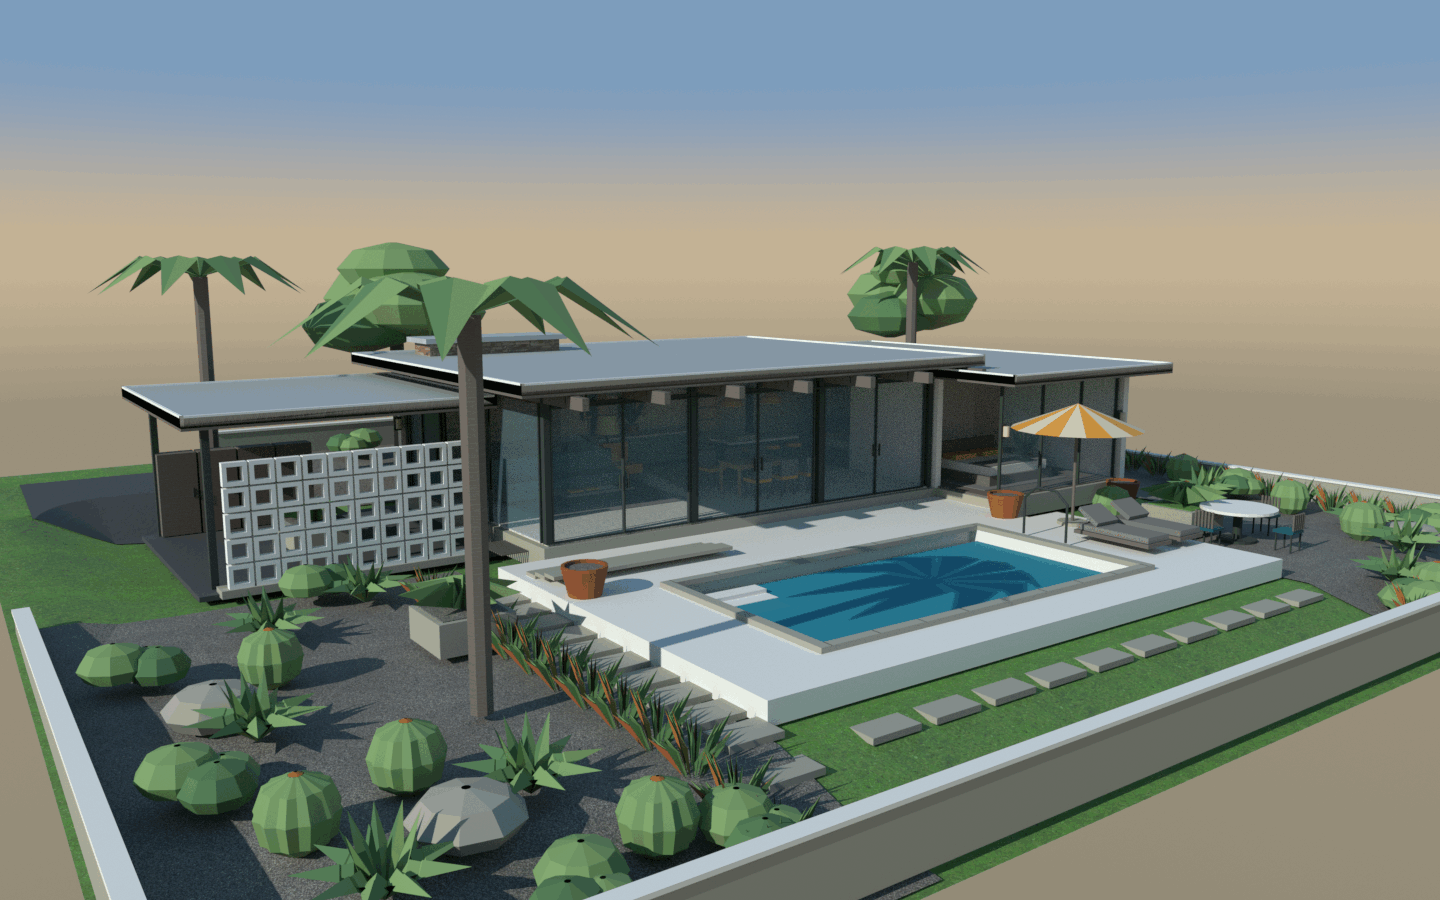
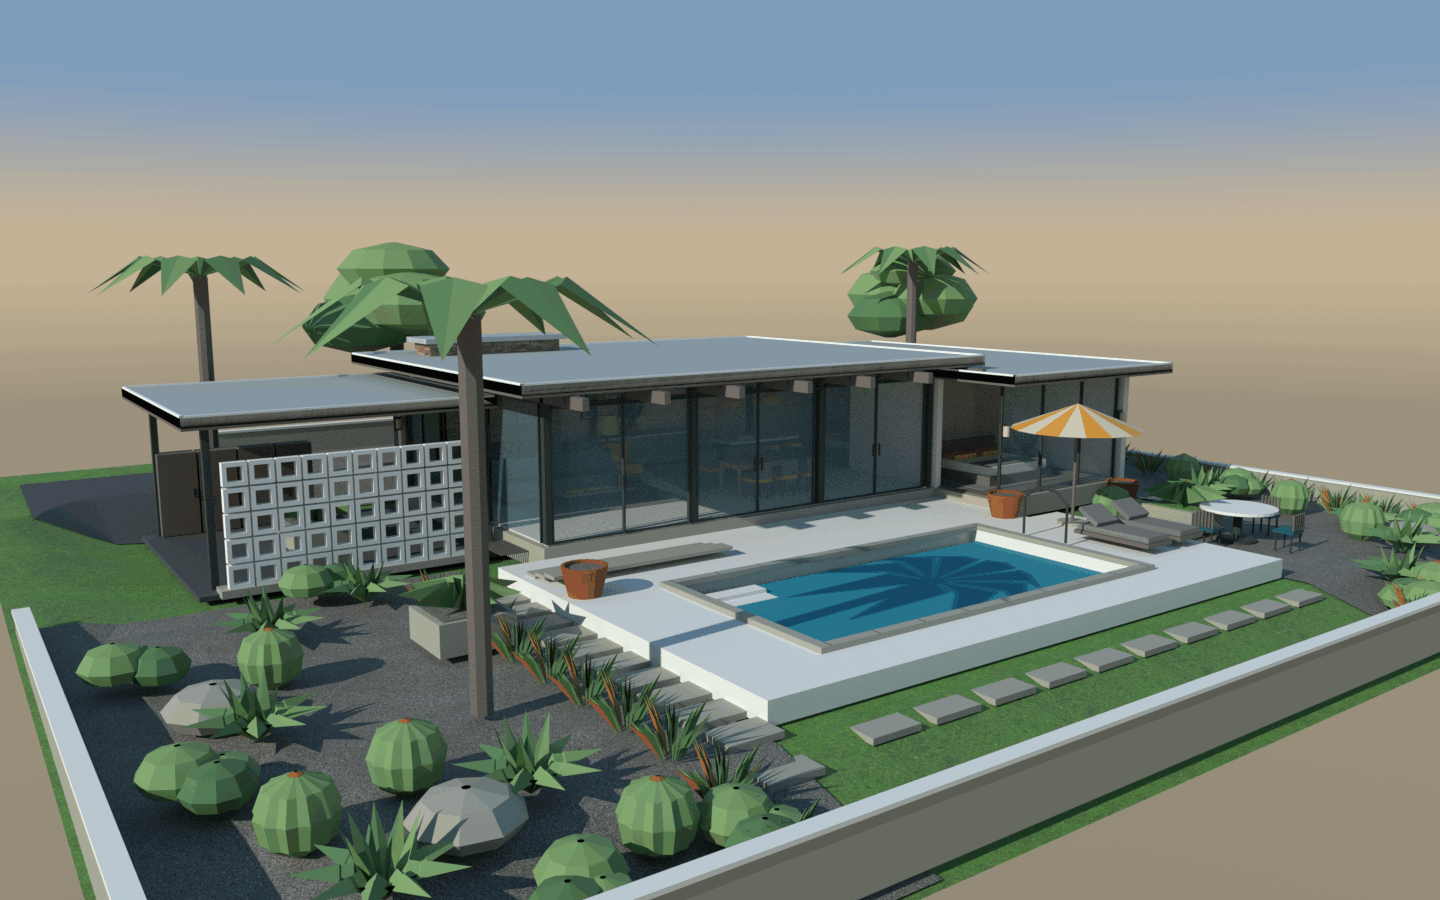
docs(images): publish the HIP GPU render and its social preview
Rendered on the separate GPU machine (Blender 5.2.2 LTS, Cycles HIP on an
AMD Radeon RX 6800 XT, 256 samples, 33 s) from the committed export bundle
through the unchanged adapter. The social preview is rebuilt from it with
scripts/make-social-preview.sh.

diff --git a/docs/images/README.md b/docs/images/README.md
@@ -19,7 +19,7 @@ Xvfb **inside Docker**. Each is 1440×900, stripped of metadata and below 500 KB
 | `section.png` | Close section perspective through the living room, hearth and kitchen, with roofs, glazing and landscape hidden. |
 | `interior.png` | Living room, stone fireplace, walnut ceiling and furniture, teal sofa and mustard lounge chair. |
 | `render.png` | 1440×900 low garden view across the pool, rendered with the unchanged Blender adapter and generated HDR sky; palette-quantized below 500 KB. |
-| `social-preview.jpg` | 1280×640 brand panel beside an actual Blender Cycles CPU render of the same model; under 1 MB, metadata stripped. |
+| `social-preview.jpg` | 1280×640 brand panel beside the same Blender Cycles render (HIP, RX 6800 XT); under 1 MB, metadata stripped. |
 
 ## Model sources
 
@@ -158,14 +158,15 @@ The directional sun keeps the adapter's color; warmth comes from the environment
 and materials. The native sun study is 15 April 2026, 16:30 UTC−07, with a 28.54°
 solar elevation and long shadows.
 
-The current render and social preview show the slightly denser planting study
-from before the measured-drawing body-budget adjustment. They were made on CPU
-**before** the owner moved
-rendering to the separate GPU machine (160 samples, 379 seconds, four threads).
-The social preview was left untouched after that instruction. The parent replaces
-it from the GPU output; `make-social-preview.sh` accepts any input render path and
-uses the truthful backend-neutral caption “Rendered with Blender / Cycles”.
-The actual HIP run must be verified on that machine; it was not run here.
+The current `render.png` and `social-preview.jpg` come from the final export bundle, rendered
+on the separate GPU machine on 2026-11-02: Blender 5.2.2 LTS, Cycles **HIP on an AMD Radeon RX
+6800 XT**, 256 samples, seed 17, 1440×900, no denoising, through the unchanged adapter
+(`scripts/render-showcase.sh render … --backend HIP`). The render took 33 seconds. The adapter's
+result reported the HIP device, and its image SHA-256 matched the file.
+
+That machine's Blender build needed one extra library for its NumPy, `libcblas.so.3`, which the
+glTF importer loads. Without it the import fails with `ImportError: libcblas.so.3`. A Blender
+build with a complete NumPy needs nothing extra.
 
 ## Released-product limitations
 
